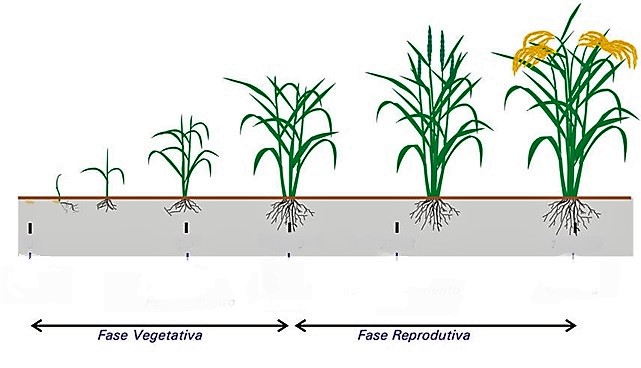
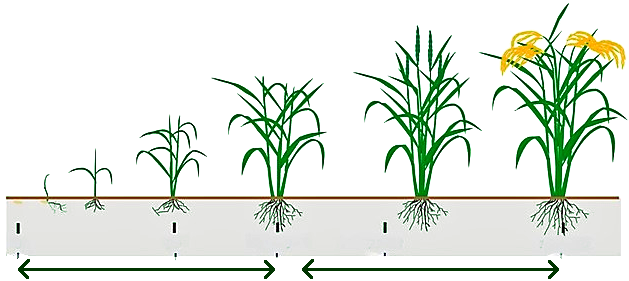
13. resaltar la fase en que se encuentra el cultivo en la gráfica 14. botones mis cultivos colocar en plural 15. correr el boton de eliminar a la derecha 16. revisar al cambiar de idioma la información que se muestra en clima cambiar a ingles y en mi cultivo 17. options otro color y adicionar iconos

diff --git a/Scripts/Home/Main.js b/Scripts/Home/Main.js
@@ -1,5 +1,5 @@
 $( document ).ready(function() {
-	AppConfig['imei']=23423423;
+	//AppConfig['imei']=23423423;
 	AppConfig.Inicial= function(){
     	$( "#lugares" ).autocomplete({
 		      minLength: 0,
@@ -470,34 +470,43 @@ $( document ).ready(function() {
 	});
 	AppConfig.detalleMiCultivo=function(){
 		var fase = (AppConfig['tmp_fase']=="null") ? txt.msjSinInfo : AppConfig['tmp_fase'];
+		var txtGrafica = "";
+		if (fase.toUpperCase() == "FASE REPRODUCTIVA"){
+			txtGrafica = "texto_reproductiva.png";
+		}else{
+			txtGrafica = "texto_vegetativa.png";
+		}
 		var $text = $('<div></div>');
 			$text.append( '<div class="form-group">'+
 							  '<button type="button" class="btn btn-success" id="btnListacultivo"><spam class="glyphicon glyphicon-th-list"></spam>&nbsp;'+txt.msjMicultivo+'</button>'+
                           '</div>'+
                           '<table class="table" style="font-size:12px"><thead>'+
 						      '<tr>'+
-						        '<th colspan="2"><img src="../../Images/Home/fases_arroz.jpg" style="width:96%";><br></th>'+
+						        '<th colspan="2"><img src="../../Images/Home/fases_arroz.jpg" style="width:96%";></th>'+
+						      '</tr>'+
+						      '<tr>'+
+						        '<th colspan="2"><img src="../../Images/Home/'+txtGrafica+'" style="width:96%";></th>'+
 						      '</tr>'+
 						    '</thead>'+
 						    '<tbody id="detalleCultivo">'+
 						    	'<tr>'+
-						    		'<td>Sistema</td>'+
+						    		'<td>'+txt.msjSistema+'</td>'+
 						    		'<td>'+AppConfig['tmp_sistema']+'</td>'+
 						    	'</tr>'+
 						    	'<tr>'+
-						    		'<td>Variedad</td>'+
+						    		'<td>'+txt.msjVariedad+'</td>'+
 						    		'<td>'+AppConfig['tmp_variedad']+'</td>'+
 						    	'</tr>'+
 						    	'<tr>'+
-						    		'<td>Hectáreas Cultivadas</td>'+
+						    		'<td>'+txt.msjHectareacultivadas+'</td>'+
 						    		'<td>'+AppConfig['tmp_has']+'</td>'+
 						    	'</tr>'+
 						    	'<tr>'+
-						    		'<td>Fecha Siembra</td>'+
+						    		'<td>'+txt.msjFechasiembra+'</td>'+
 						    		'<td>'+AppConfig['tmp_fecha']+'</td>'+
 						    	'</tr>'+
 						    	'<tr>'+
-						    		'<td>Fase</td>'+
+						    		'<td>'+txt.msjFase+'</td>'+
 						    		'<td>'+fase+'</td>'+
 						    	'</tr>'+
 						    '</tbody>'
@@ -532,10 +541,10 @@ $( document ).ready(function() {
                           '</div>'+
                           '<table class="table"><thead>'+
 						      '<tr>'+
-						        '<th>Nombre</th>'+
-						        '<th>Detalle</th>'+
-						        '<th>ir</th>'+
-						        '<th>Eliminar</th>'+
+						        '<th>'+txt.msjNombre+'</th>'+
+						        '<th>'+txt.msjDetalle+'</th>'+
+						        '<th>'+txt.msjIr+'</th>'+
+						        '<th>'+txt.msjEliminar+'</th>'+
 						      '</tr>'+
 						    '</thead>'+
 						    '<tbody id="listaCultivos"></tbody>'
@@ -558,7 +567,7 @@ $( document ).ready(function() {
         						'<td>'+value.nombre+'</td>'+
         						'<td class="btn_detalle" d="'+value.id+'" n="'+value.nombre+'" v="'+value.variedad+'" s="'+value.sistema+'" h="'+value.ha_cultivadas+'" f="'+value.fecha_siembra+'" nf="'+value.nombre_fase+'" lat="'+value.latitud+'" lon="'+value.longitud+'"><spam class="glyphicon glyphicon-tasks"></spam></td>'+
         						'<td class="btn_ir" lat="'+value.latitud+'" lon="'+value.longitud+'"><spam class="glyphicon glyphicon-map-marker"></spam></td>'+
-                				'<td class="btn_eliminar" n="'+value.nombre+'" d="'+value.id+'"><spam class="glyphicon glyphicon-erase"></spam></td>'+
+                				'<td class="btn_eliminar" align="right" n="'+value.nombre+'" d="'+value.id+'"><spam class="glyphicon glyphicon-erase"></spam></td>'+
 							'</tr>');
 					});
 					
@@ -602,26 +611,26 @@ $( document ).ready(function() {
 							  '<button type="button" class="btn btn-success" id="btnListacultivo"><spam class="glyphicon glyphicon-th-list"></spam>&nbsp;'+txt.msjMicultivo+'</button>'+
 							'</div>'+
 							'<div class="form-group">'+
-							  '<label for="fnombre">Nombre</label><input type="text" class="form-control" id="fnombre">'+
+							  '<label for="fnombre">'+txt.msjNombre+'</label><input type="text" class="form-control" id="fnombre">'+
 							'</div>'+
-							'<label for="ffecha">Fecha Siembra</label>'+
+							'<label for="ffecha">'+txt.msjFechasiembra+'</label>'+
 							'<input data-provide="datepicker" id="ffecha" class="form-control" >'+
 							'<div class="form-group">'+
-							  '<label for="fvariedad">Variedad</label><select class="form-control" id="fvariedad">'+
+							  '<label for="fvariedad">'+txt.msjVariedad+'</label><select class="form-control" id="fvariedad">'+
 							  '<option value="">--Seleccione--</option>'+
 							  '</select>'+
 							'</div>'+
 							'<div class="form-group">'+
-							  '<label for="fsistema">Sistema</label><select class="form-control" id="fsistema">'+
+							  '<label for="fsistema">'+txt.msjSistema+'</label><select class="form-control" id="fsistema">'+
 							  '<option value="">--Seleccione--</option>'+
 							  '</select>'+
 							'</div>'+
 							'<div class="form-group">'+
-							  '<label for="fhas">'+txt.msjHectarea+'s Cultivadas</label><input type="text" class="form-control decimal" id="fhas">'+
+							  '<label for="fhas">'+txt.msjHectareacultivadas+'</label><input type="text" class="form-control decimal" id="fhas">'+
 							'</div>'+
 							'<h6>'+txt.msjUbicacionmapa+': <span id="txtLon" class="label label-info"></span>  <span id="txtLat" class="label label-info"></span></h6>'+
 							'<div class="form-group">'+
-							  '<button type="button" class="btn btn-success btn-block"  id="btnGuardarCultivo">Guardar</button>'+
+							  '<button type="button" class="btn btn-success btn-block"  id="btnGuardarCultivo">'+txt.msjGuardar+'</button>'+
 							'</div>'
 						);
 		
@@ -715,38 +724,38 @@ $( document ).ready(function() {
 	};
 	AppConfig.eliminaCultivo=function(){
 			BootstrapDialog.show({
-				title: 'Eliminar',
+				title: txt.msjEliminar,
 				type: BootstrapDialog.TYPE_SUCCESS,
-	            message: 'Seguro desea eliminar el Cultivo: "'+AppConfig['tmp_nombre'] + '"',
+	            message: txt.msjEliminacultivo+' '+AppConfig['tmp_nombre'] + '"',
 	            buttons: [{
 	                icon: 'glyphicon glyphicon-erase',
-	                label: 'Eliminar',
-	                title: 'Eliminar',
+	                label: txt.msjEliminar,
+	                title: txt.msjEliminar,
 	                cssClass: 'btn-danger',
 	                action: function(dialogItself){
 						AppConfig.sk_sofy.emit('deleteMicultivo',{id:AppConfig['tmp_id']}, function (msj) {
 							if(msj=="1"){
-								msj_exito("Cultivo Eliminado correctamente!");
+								msj_exito(txt.msjEliminadocorrectamente);
 								dialogItself.close();
 								AppConfig.listaMiCultivo();
 								return true;	
 							}else{
-								msj_peligro("No se puede Elimina el Cultivo");
+								msj_peligro("No se puede Eliminar el Cultivo");
 							}
 							console.log(msj);
 						});
 	                }
 	            },{
 	                icon: 'glyphicon glyphicon-th-list',
-	                label: 'Listado',
-	                title: 'Listado',
+	                label: txt.msjMicultivo,
+	                title: txt.msjMicultivo,
 	                cssClass: 'btn-info',
 	                action: function(dialogItself){
 	                    dialogItself.close();
 						AppConfig.listaMiCultivo();
 	                }
 	            }, {
-	                label: 'Cancelar',
+	                label: txt.btn_cancelar,
 	                action: function(dialogItself){
 	                    dialogItself.close();
 	                }

diff --git a/Scripts/Idioma.js b/Scripts/Idioma.js
@@ -57,7 +57,20 @@ var txt = {
 	msjSinestacion:"",
 	msjUbicacionmapa:"",
 	msjHectarea:"",
-	msjRecomendacion:""
+	msjRecomendacion:"",
+	msjNombre:"",
+	msjDetalle:"",
+	msjIr:"",
+	msjEliminar:"",
+	msjFechasiembra:"",
+	msjVariedad:"",
+	msjSistema:"",
+	msjHectareacultivadas:"",
+	msjFase:"",
+	msjGuardar:"",
+	msjEliminacultivo:"",
+	msjEliminadocorrectamente:"",
+	msjNoelimina:"",
 };
 
 var idiomas = {
@@ -107,7 +120,7 @@ var idiomas = {
 		"msjclimogramaHumSol": "Climograma (Humedad Relativa / Brillo Solar)",
 		"msjclimogramaHumedadrelativa": "Humedad Relativa",
 		"msjclimogramaBrillosolar": "Brillo Solar",
-		"msjMicultivo": "Mi Cultivo",
+		"msjMicultivo": "Mi Cultivos",
 		"msjAddcultivo": "Adicionar Cultivo",
 		"msjNogps":"Ubicación NO encontrada!",
 		"dialogGPSMensaje":"Su GPS está apagado, Esta aplicación requiere que este activo para todas sus funciones.",
@@ -119,7 +132,20 @@ var idiomas = {
 		"msjSinestacion":"No hay datos disponibles en el momento para esta úbicación!",
 		"msjUbicacionmapa":"Ubicación tomada del punto en el mapa",
 		"msjHectarea":"Hectárea",
-		"msjRecomendacion":"Recomendación"
+		"msjRecomendacion":"Recomendación",
+		"msjNombre":"Nombre",
+		"msjDetalle":"Detalle",
+		"msjIr":"Ir",
+		"msjEliminar":"Eliminar",
+		"msjFechasiembra":"Fecha Siembra",
+		"msjVariedad":"Variedad",
+		"msjSistema":"Sistema",
+		"msjHectareacultivadas":"Hectáreas cultivadas",
+		"msjFase":"Fase",
+		"msjGuardar":"Guardar",
+		"msjEliminacultivo":"Seguro desea eliminar el Cultivo: ",
+		"msjEliminadocorrectamente":"Eliminado Correctamente!",
+		"msjNoelimina":" No se puede eliminar ",
 	},
 	"EN":{
 		"tit_terminos": "Terms and Conditions",
@@ -167,7 +193,7 @@ var idiomas = {
 		"msjclimogramaHumSol": "Relative humidity / solar brightness",
 		"msjclimogramaHumedadrelativa": "Relative Humidity",
 		"msjclimogramaBrillosolar": "Solar Brightness",
-		"msjMicultivo": "My Crop",
+		"msjMicultivo": "My Crops",
 		"msjAddcultivo": "Add Crop",
 		"msjNogps":"No GPS locations have been found!",
 		"dialogGPSMensaje":"Your GPS is Disabled, this app needs to be enable to works.",
@@ -179,7 +205,20 @@ var idiomas = {
 		"msjSinestacion":"Data not found!",
 		"msjUbicacionmapa":"Location taken from point on the map",
 		"msjHectarea":"Hectare",
-		"msjRecomendacion":"Recommendation"
+		"msjRecomendacion":"Recommendation",
+		"msjNombre":"Name",
+		"msjDetalle":"Details",
+		"msjIr":"Go",
+		"msjEliminar":"Delete",
+		"msjFechasiembra":"Sowing date",
+		"msjVariedad":"Variety",
+		"msjSistema":"System",
+		"msjHectareacultivadas":"hectares cultivated",
+		"msjFase":"Phase",
+		"msjGuardar":"Save",
+		"msjEliminacultivo":"Do you really want to remove this Crop: ",
+		"msjEliminadocorrectamente":"successfully deleted!",
+		"msjNoelimina": " Cannot drop "
 	}
 };
 
@@ -189,10 +228,10 @@ function SetIdioma(leng){ console.log("Cambio de idioma:" +leng);
 		txt[key] = value;		//console.log ( key + ": " + value );
 	});
 	$("#lugares").attr("placeholder", txt.ph_buscasitio);
-	$("#btn_opciones").find('button').html(txt.tit_opciones);
-	$("#btn_opcProduccion").find('button').html(txt.msjProduccion);
-	$("#btn_opcClima").find('button').html(txt.tit_clima);
-	$("#btn_opcMicultivo").find('button').html(txt.msjMicultivo);
+	$("#btn_opciones").find('button').html('<i class="fa fa-cog" aria-hidden="true"></i> '+txt.tit_opciones);
+	$("#btn_opcProduccion").find('button').html('<i class="fa fa-stack-overflow" aria-hidden="true"></i> ' + txt.msjProduccion);
+	$("#btn_opcClima").find('button').html('<i class="fa fa-cloud" aria-hidden="true"></i> '+txt.tit_clima);
+	$("#btn_opcMicultivo").find('button').html('<i class="fa fa-th-list" aria-hidden="true"></i> '+txt.msjMicultivo);
 	$(".tit_popup").html(txt.msjProduccion);
 	$(".msjRiegoSuper").html(txt.msjRiegoSuper);
 	$(".msjRiegoProd").html(txt.msjRiegoProd);
@@ -207,5 +246,3 @@ function SetIdioma(leng){ console.log("Cambio de idioma:" +leng);
 	$(".msjSinInfo").html(txt.msjSinInfo);
 /*	$.each( txt, function( key, value ) {console.log ( key + ": " + value );});	*/	
 };
-
-

diff --git a/Views/Home/index.html b/Views/Home/index.html
@@ -41,12 +41,12 @@
 	<div id="tituloMapa" style="display: none">&nbsp;</div>
 
 	<div class="row" style="z-index: 2000;position: absolute;bottom: 36px;width: 100%;">
-	    <div class="col-xs-6 col-md-6" id="btn_opciones"><button type="button" class="btn btn-success btn_custom">Opciones</button></div>
-	    <div class="col-xs-6 col-md-6" id="btn_opcProduccion"><button type="button" class="btn btn-success btn_custom">Producción</button></div>
+	    <div class="col-xs-6 col-md-6" id="btn_opciones"><button type="button" class="btn btn-warning btn_custom"><i class="fa fa-cog" aria-hidden="true">&nbsp;</i>Opciones</button></div>
+	    <div class="col-xs-6 col-md-6" id="btn_opcProduccion"><button type="button" class="btn btn-success btn_custom"><i class="fa fa-stack-overflow" aria-hidden="true">&nbsp;</i> Producción</button></div>
 	</div>
 	<div class="row" style="z-index: 2000;position: absolute;bottom: 1px;width: 100%;">
-	    <div class="col-xs-6 col-md-6" id="btn_opcClima"><button type="button" class="btn btn-success btn_custom">Clima</button></div>
-	    <div class="col-xs-6 col-md-6" id="btn_opcMicultivo"><button type="button" class="btn btn-success btn_custom">Mi Cultivo</button></div>
+	    <div class="col-xs-6 col-md-6" id="btn_opcClima"><button type="button" class="btn btn-success btn_custom"><i class="fa fa-cloud" aria-hidden="true">&nbsp;</i>Clima</button></div>
+	    <div class="col-xs-6 col-md-6" id="btn_opcMicultivo"><button type="button" class="btn btn-success btn_custom"><i class="fa fa-th-list" aria-hidden="true">&nbsp;</i>Mi Cultivo</button></div>
 	</div>
 	
    	<!-- Panel Mapa -->
@@ -75,8 +75,8 @@
 	<script src="../../Resources/topojson/topojson.v1.min.js"></script>
 	<script src="../../Resources/turf/turf.min.js"></script>
 	<script src="../../Resources/leaflet/leaflet.js"></script>
-	<script src="http://maps.google.com/maps/api/js?key=AIzaSyBKJoVRGZqXty7quRMexjOBrcLEO_VNyGI&v=3&amp;"></script>
-	<!--script src="http://maps.google.com/maps/api/js?v=3&amp;"></script-->
+	<!--script src="http://maps.google.com/maps/api/js?key=AIzaSyBKJoVRGZqXty7quRMexjOBrcLEO_VNyGI&v=3&amp;"></script-->
+	<script src="http://maps.google.com/maps/api/js?v=3&amp;"></script>
 	<script src="../../Resources/leaflet/plugins/layer/tile/Google.js"></script>
 	<script src="../../Resources/cleave-js/cleave.min.js"></script>
 	<script src="../../Resources/Highcharts/js/highcharts.js"></script>
@@ -86,8 +86,8 @@
 	<script src="../../Resources/socket/socket.io.js"></script>
 	
 
-	<!-- CORDOVA Resources>
-	<script type="text/javascript" src="../../cordova.js"></script-->
+	<!-- CORDOVA Resources-->
+	<script type="text/javascript" src="../../cordova.js"></script>
 	<script type="text/javascript" src="../../Scripts/index.js"></script>
 	<!-- app Resources -->
 	<script src="../../Scripts/Idioma.js"></script>
